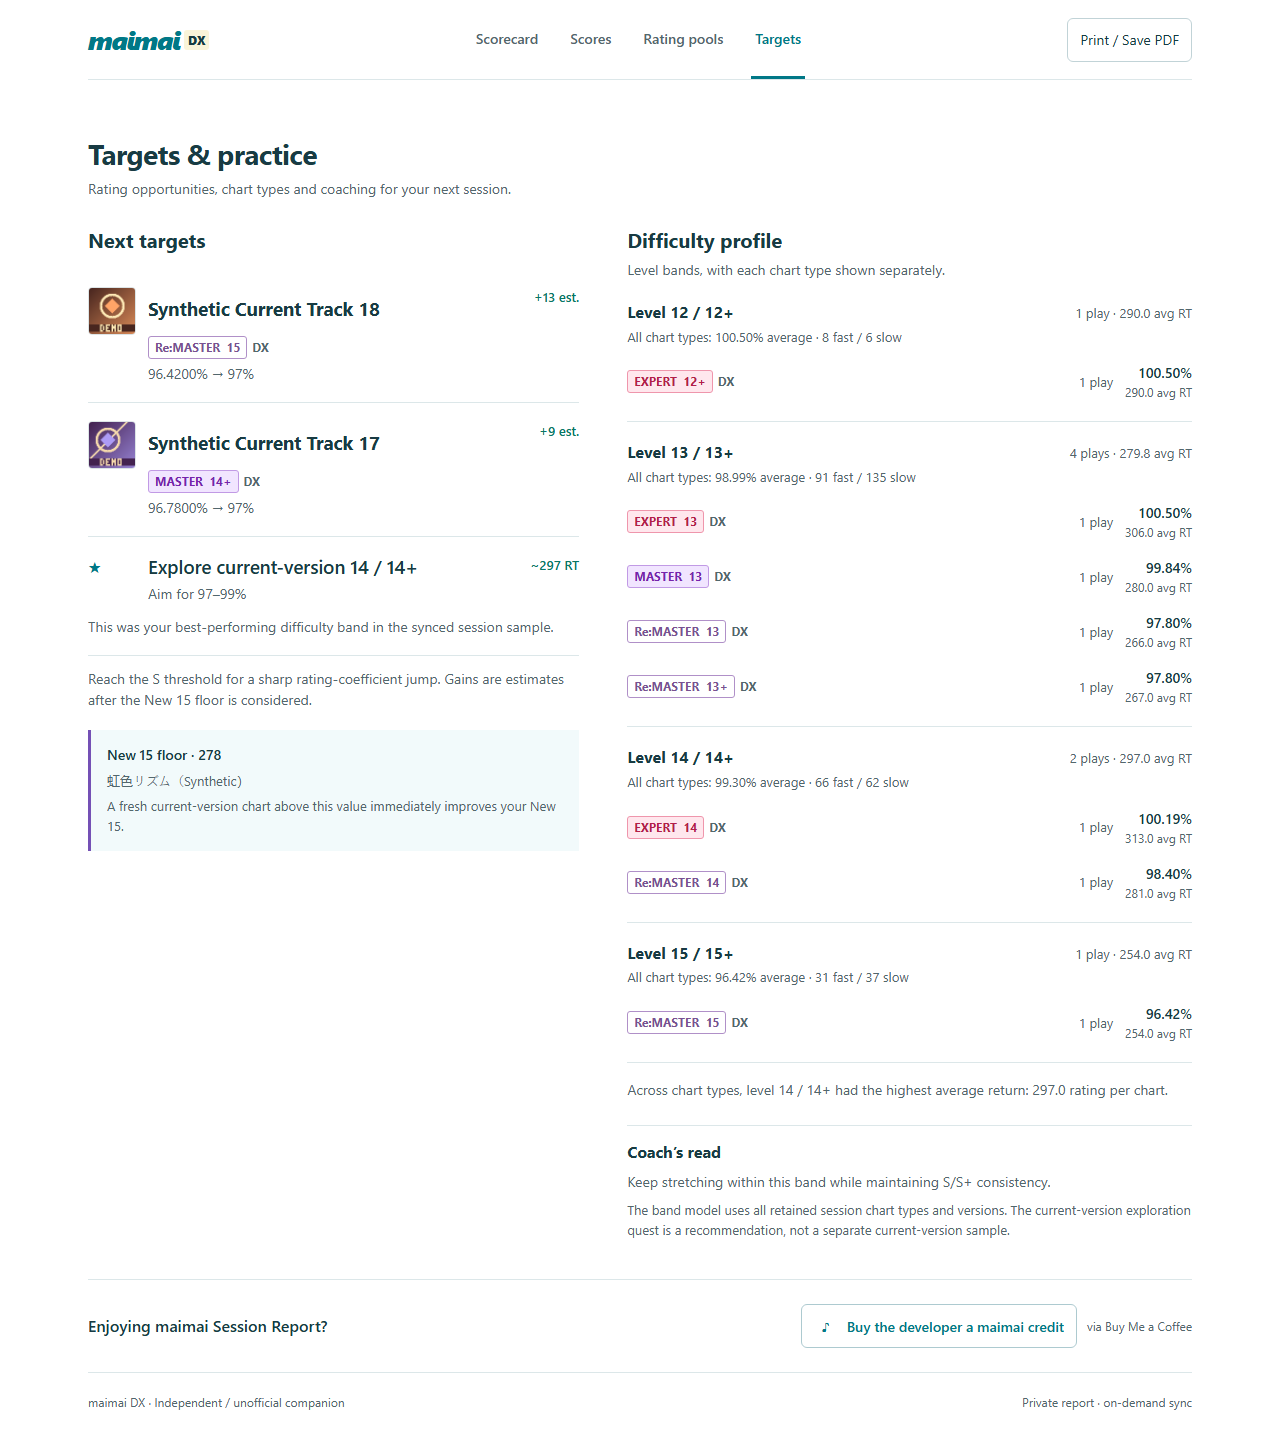
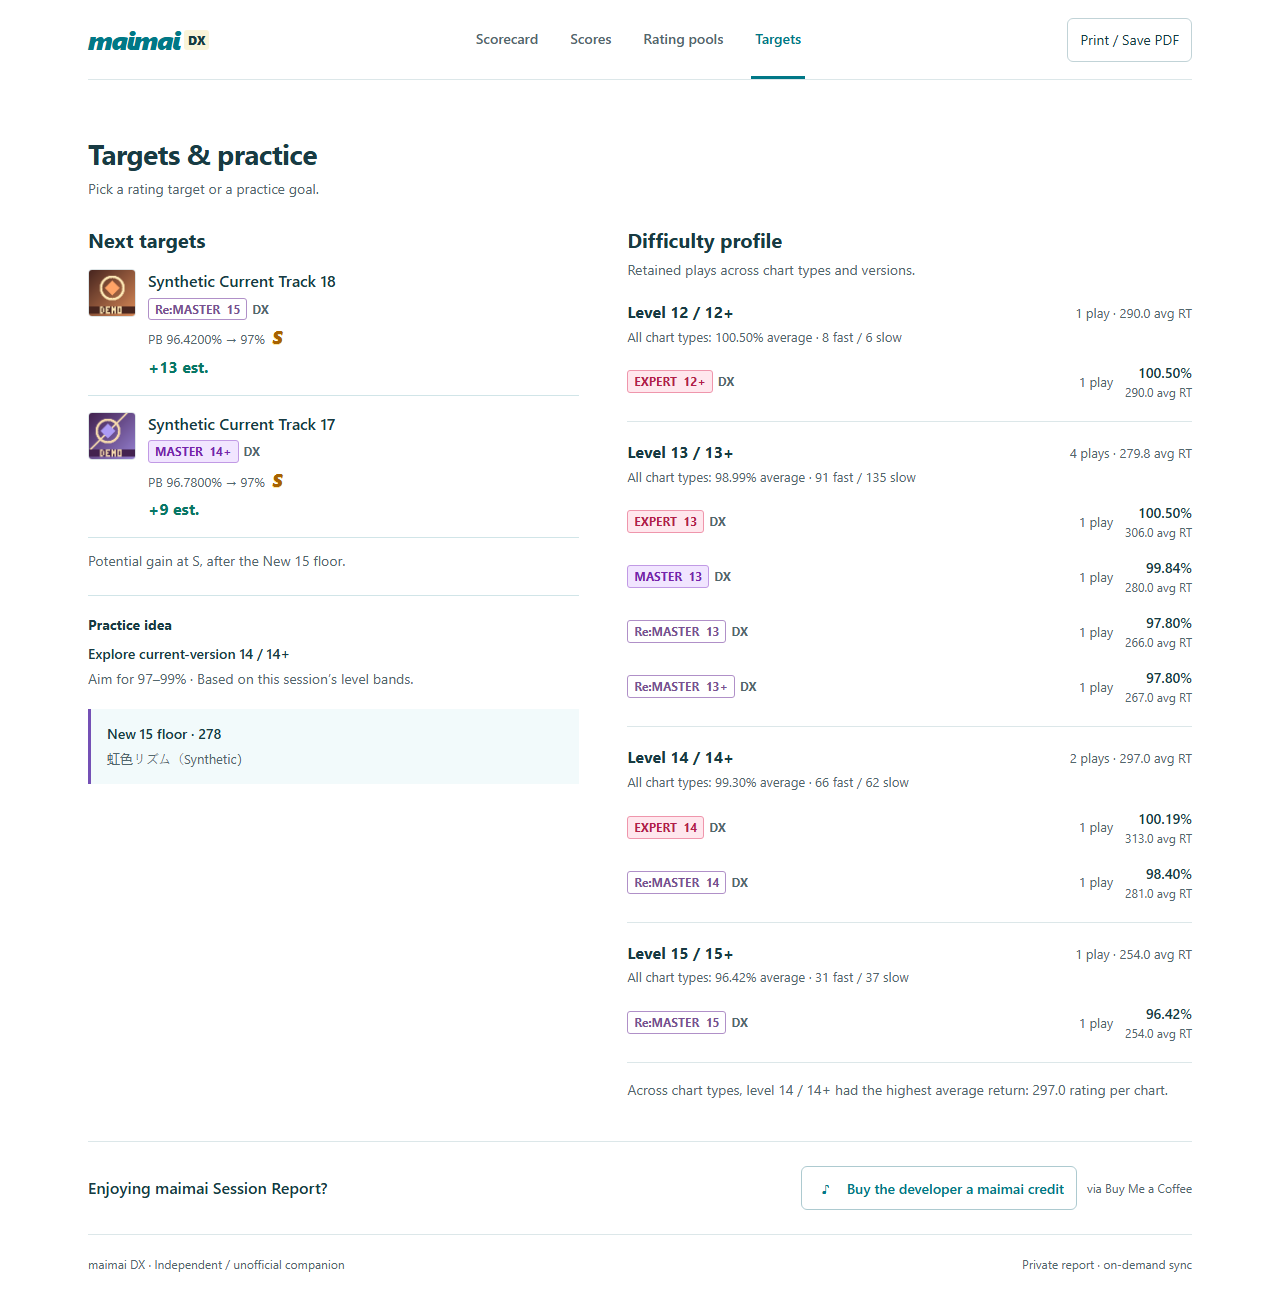
Keep existing Targets and Play next compact and consistent

diff --git a/docs/sample-report.html b/docs/sample-report.html
@@ -1275,9 +1275,10 @@ body.support-dialog-open { overflow: hidden; }
 
   function questsHtml() {
     const all = quests();
-    const floor = all.find(q=>q.reward==="FLOOR");
     const candidates = all.filter(q=>q.reward.endsWith(" est."));
-    return `<div class="quest-grid">${all.filter(q=>q.reward!=="FLOOR").map(q=>`<article class="quest">${q.chart?jacketHtml(q.chart):`<span class="quest-icon" aria-hidden="true">${q.icon}</span>`}<div><h3 class="quest-title">${q.chart?`<button type="button" class="chart-link" data-detail-source="targets" data-detail-index="${(after.newPool||[]).findIndex(x=>x.chartID===q.chart.chartID)}" aria-label="Target details: ${safe(q.title)}">${safe(q.title)}</button>`:safe(q.title)}</h3>${q.chart?chartBadge(q.chart):""}<div class="quest-sub">${safe(q.sub)}</div></div><div class="quest-reward">${safe(q.reward)}</div>${q.chart?"":`<p class="quest-copy">${safe(q.copy)}</p>`}</article>`).join("")}</div>${candidates.length?`<p class="target-explanation">Reach the S threshold for a sharp rating-coefficient jump. Gains are estimates after the New 15 floor is considered.</p>`:""}${floor?`<aside class="pool-threshold-note"><h3>New 15 floor · ${num(after.new15Floor)}</h3><p>${safe(floor.title)}</p><p>${safe(floor.copy)}</p></aside>`:""}`;
+    const practice = all.find(q=>!q.chart && q.reward!=="FLOOR");
+    const floor = all.find(q=>q.reward==="FLOOR");
+    return `${targetRowsHtml(candidates)}${practice ? `<aside class="practice-note"><h3>Practice idea</h3><p><strong>${safe(practice.title)}</strong><span>${safe(practice.sub)} · Based on this session’s level bands.</span></p></aside>` : ""}${floor ? `<aside class="pool-threshold-note"><h3>New 15 floor · ${num(after.new15Floor)}</h3><p>${safe(floor.title)}</p></aside>` : ""}`;
   }
 
   // Presentation-only sorting. Retain source indices so repeated plays of the
@@ -1397,15 +1398,18 @@ body.support-dialog-open { overflow: hidden; }
   }
 
 
+  function targetRowsHtml(candidates) {
+    return `<div class="target-list">${candidates.map(q=>`<button type="button" class="target-row" data-detail-source="targets" data-detail-index="${(after.newPool || []).findIndex(x=>x.chartID===q.chart.chartID)}" aria-label="Target details: ${safe(q.title)}">${jacketHtml(q.chart)}<span><strong>${safe(q.title)}</strong>${chartBadge(q.chart)}<span class="target-progress">PB ${safe(q.sub)} ${gradeHtml("S")}</span></span><span class="target-estimate">${safe(q.reward)}</span></button>`).join("") || `<p class="mini-empty">No positive-gain S-threshold targets in this snapshot.</p>`}</div>${candidates.length ? `<p class="target-explanation">Potential gain at S, after the New 15 floor.</p>` : ""}`;
+  }
+
   function overviewTargetsHtml() {
-    const candidates = quests().filter(q=>q.reward.endsWith(" est."));
-    return `<div class="target-list">${candidates.map(q=>`<button type="button" class="target-row" data-detail-source="targets" data-detail-index="${(after.newPool || []).findIndex(x=>x.chartID===q.chart.chartID)}" aria-label="Target details: ${safe(q.title)}">${jacketHtml(q.chart)}<span><strong>${safe(q.title)}</strong>${chartBadge(q.chart)}<span class="target-progress">${safe(q.sub)} ${gradeHtml("S")}</span></span><span class="target-estimate">${safe(q.reward)}</span></button>`).join("") || `<p class="mini-empty">No positive-gain S-threshold targets in this snapshot.</p>`}</div>${candidates.length?`<p class="target-explanation">Reach S for the next rating jump. Gains are estimates.</p>`:""}`;
+    return targetRowsHtml(quests().filter(q=>q.reward.endsWith(" est.")));
   }
 
   function overviewView() {
     return `<section id="overview-view" class="view active" data-view="overview" role="tabpanel" aria-labelledby="tab-overview">
       <div class="overview-lead"><section class="overview-scores"><div class="section-heading"><h2>Session highlights</h2><button type="button" class="text-action" data-open-view="session">All scores</button></div><p class="section-caption">Biggest PB gains, before counted-pool replacements.</p>${overviewScoresHtml()}</section>
-        <section class="overview-targets"><div class="section-heading"><h2>Play next</h2><button type="button" class="text-action" data-open-view="targets">All targets</button></div>${overviewTargetsHtml()}<button type="button" class="analysis-link" data-open-view="targets"><span><strong>Find your practice focus</strong><small>Difficulty, sweet spots & coaching</small></span><span aria-hidden="true">→</span></button></section></div>
+        <section class="overview-targets"><div class="section-heading"><h2>Play next</h2><button type="button" class="text-action" data-open-view="targets">All targets</button></div>${overviewTargetsHtml()}<button type="button" class="analysis-link" data-open-view="targets"><span><strong>Find your practice focus</strong><small>Targets & session level bands</small></span><span aria-hidden="true">→</span></button></section></div>
     </section>`;
   }
 
@@ -1432,11 +1436,9 @@ body.support-dialog-open { overflow: hidden; }
 
 
   function targetsView() {
-    const bands = difficultyBands();
-    return `<section id="targets-view" class="view" data-view="targets"><header class="view-heading"><h1>Targets & practice</h1><p>Rating opportunities, chart types and coaching for your next session.</p></header>
-      <div class="practice-layout"><section class="target-opportunities"><h2 class="section-title">Next targets</h2>${questsHtml()}</section><section class="practice-profile"><h2 class="section-title">Difficulty profile</h2><p class="section-subtitle">Level bands, with each chart type shown separately.</p>${bandsHtml()}<aside class="practice-guidance"><h3>Coach’s read</h3><p>${bands.best?"Keep stretching within this band while maintaining S/S+ consistency.":"A non-empty session will reveal your most efficient difficulty band."}</p><p>The band model uses all retained session chart types and versions. The current-version exploration quest is a recommendation, not a separate current-version sample.</p></aside></section></div></section>`;
+    return `<section id="targets-view" class="view" data-view="targets"><header class="view-heading"><h1>Targets & practice</h1><p>Pick a rating target or a practice goal.</p></header>
+      <div class="practice-layout"><section class="target-opportunities"><h2 class="section-title">Next targets</h2>${questsHtml()}</section><section class="practice-profile"><h2 class="section-title">Difficulty profile</h2><p class="section-subtitle">Retained plays across chart types and versions.</p>${bandsHtml()}</section></div></section>`;
   }
-
 
   function toolbarHtml() {
     return `<nav class="toolbar" aria-label="Report views"><a class="report-brand" href="#overview-view" data-open-view="overview" aria-label="maimai report overview"><span class="brand-word">mai<span>mai</span><b>DX</b></span></a><div class="tabs" role="tablist" aria-label="Report sections">

diff --git a/src/maimai_report/assets/app.js b/src/maimai_report/assets/app.js
@@ -271,9 +271,10 @@
 
   function questsHtml() {
     const all = quests();
-    const floor = all.find(q=>q.reward==="FLOOR");
     const candidates = all.filter(q=>q.reward.endsWith(" est."));
-    return `<div class="quest-grid">${all.filter(q=>q.reward!=="FLOOR").map(q=>`<article class="quest">${q.chart?jacketHtml(q.chart):`<span class="quest-icon" aria-hidden="true">${q.icon}</span>`}<div><h3 class="quest-title">${q.chart?`<button type="button" class="chart-link" data-detail-source="targets" data-detail-index="${(after.newPool||[]).findIndex(x=>x.chartID===q.chart.chartID)}" aria-label="Target details: ${safe(q.title)}">${safe(q.title)}</button>`:safe(q.title)}</h3>${q.chart?chartBadge(q.chart):""}<div class="quest-sub">${safe(q.sub)}</div></div><div class="quest-reward">${safe(q.reward)}</div>${q.chart?"":`<p class="quest-copy">${safe(q.copy)}</p>`}</article>`).join("")}</div>${candidates.length?`<p class="target-explanation">Reach the S threshold for a sharp rating-coefficient jump. Gains are estimates after the New 15 floor is considered.</p>`:""}${floor?`<aside class="pool-threshold-note"><h3>New 15 floor · ${num(after.new15Floor)}</h3><p>${safe(floor.title)}</p><p>${safe(floor.copy)}</p></aside>`:""}`;
+    const practice = all.find(q=>!q.chart && q.reward!=="FLOOR");
+    const floor = all.find(q=>q.reward==="FLOOR");
+    return `${targetRowsHtml(candidates)}${practice ? `<aside class="practice-note"><h3>Practice idea</h3><p><strong>${safe(practice.title)}</strong><span>${safe(practice.sub)} · Based on this session’s level bands.</span></p></aside>` : ""}${floor ? `<aside class="pool-threshold-note"><h3>New 15 floor · ${num(after.new15Floor)}</h3><p>${safe(floor.title)}</p></aside>` : ""}`;
   }
 
   // Presentation-only sorting. Retain source indices so repeated plays of the
@@ -393,15 +394,18 @@
   }
 
 
+  function targetRowsHtml(candidates) {
+    return `<div class="target-list">${candidates.map(q=>`<button type="button" class="target-row" data-detail-source="targets" data-detail-index="${(after.newPool || []).findIndex(x=>x.chartID===q.chart.chartID)}" aria-label="Target details: ${safe(q.title)}">${jacketHtml(q.chart)}<span><strong>${safe(q.title)}</strong>${chartBadge(q.chart)}<span class="target-progress">PB ${safe(q.sub)} ${gradeHtml("S")}</span></span><span class="target-estimate">${safe(q.reward)}</span></button>`).join("") || `<p class="mini-empty">No positive-gain S-threshold targets in this snapshot.</p>`}</div>${candidates.length ? `<p class="target-explanation">Potential gain at S, after the New 15 floor.</p>` : ""}`;
+  }
+
   function overviewTargetsHtml() {
-    const candidates = quests().filter(q=>q.reward.endsWith(" est."));
-    return `<div class="target-list">${candidates.map(q=>`<button type="button" class="target-row" data-detail-source="targets" data-detail-index="${(after.newPool || []).findIndex(x=>x.chartID===q.chart.chartID)}" aria-label="Target details: ${safe(q.title)}">${jacketHtml(q.chart)}<span><strong>${safe(q.title)}</strong>${chartBadge(q.chart)}<span class="target-progress">${safe(q.sub)} ${gradeHtml("S")}</span></span><span class="target-estimate">${safe(q.reward)}</span></button>`).join("") || `<p class="mini-empty">No positive-gain S-threshold targets in this snapshot.</p>`}</div>${candidates.length?`<p class="target-explanation">Reach S for the next rating jump. Gains are estimates.</p>`:""}`;
+    return targetRowsHtml(quests().filter(q=>q.reward.endsWith(" est.")));
   }
 
   function overviewView() {
     return `<section id="overview-view" class="view active" data-view="overview" role="tabpanel" aria-labelledby="tab-overview">
       <div class="overview-lead"><section class="overview-scores"><div class="section-heading"><h2>Session highlights</h2><button type="button" class="text-action" data-open-view="session">All scores</button></div><p class="section-caption">Biggest PB gains, before counted-pool replacements.</p>${overviewScoresHtml()}</section>
-        <section class="overview-targets"><div class="section-heading"><h2>Play next</h2><button type="button" class="text-action" data-open-view="targets">All targets</button></div>${overviewTargetsHtml()}<button type="button" class="analysis-link" data-open-view="targets"><span><strong>Find your practice focus</strong><small>Difficulty, sweet spots & coaching</small></span><span aria-hidden="true">→</span></button></section></div>
+        <section class="overview-targets"><div class="section-heading"><h2>Play next</h2><button type="button" class="text-action" data-open-view="targets">All targets</button></div>${overviewTargetsHtml()}<button type="button" class="analysis-link" data-open-view="targets"><span><strong>Find your practice focus</strong><small>Targets & session level bands</small></span><span aria-hidden="true">→</span></button></section></div>
     </section>`;
   }
 
@@ -428,11 +432,9 @@
 
 
   function targetsView() {
-    const bands = difficultyBands();
-    return `<section id="targets-view" class="view" data-view="targets"><header class="view-heading"><h1>Targets & practice</h1><p>Rating opportunities, chart types and coaching for your next session.</p></header>
-      <div class="practice-layout"><section class="target-opportunities"><h2 class="section-title">Next targets</h2>${questsHtml()}</section><section class="practice-profile"><h2 class="section-title">Difficulty profile</h2><p class="section-subtitle">Level bands, with each chart type shown separately.</p>${bandsHtml()}<aside class="practice-guidance"><h3>Coach’s read</h3><p>${bands.best?"Keep stretching within this band while maintaining S/S+ consistency.":"A non-empty session will reveal your most efficient difficulty band."}</p><p>The band model uses all retained session chart types and versions. The current-version exploration quest is a recommendation, not a separate current-version sample.</p></aside></section></div></section>`;
+    return `<section id="targets-view" class="view" data-view="targets"><header class="view-heading"><h1>Targets & practice</h1><p>Pick a rating target or a practice goal.</p></header>
+      <div class="practice-layout"><section class="target-opportunities"><h2 class="section-title">Next targets</h2>${questsHtml()}</section><section class="practice-profile"><h2 class="section-title">Difficulty profile</h2><p class="section-subtitle">Retained plays across chart types and versions.</p>${bandsHtml()}</section></div></section>`;
   }
-
 
   function toolbarHtml() {
     return `<nav class="toolbar" aria-label="Report views"><a class="report-brand" href="#overview-view" data-open-view="overview" aria-label="maimai report overview"><span class="brand-word">mai<span>mai</span><b>DX</b></span></a><div class="tabs" role="tablist" aria-label="Report sections">

diff --git a/tests/browser/compact-targets.spec.js b/tests/browser/compact-targets.spec.js
@@ -1,0 +1,68 @@
+import {test, expect} from '@playwright/test';
+import AxeBuilder from '@axe-core/playwright';
+import {readFile} from 'node:fs/promises';
+
+test('Scorecard and Targets share concise rows and unchanged floor-aware opportunities', async ({page}, testInfo) => {
+  const errors = [], external = [];
+  page.on('pageerror', error => errors.push(error.message));
+  await page.route('**/*', route => {
+    if (new URL(route.request().url()).hostname === '127.0.0.1') return route.continue();
+    external.push(route.request().url()); return route.abort();
+  });
+  await page.goto('/presentation.html');
+  const before = await page.locator('#report-data').textContent();
+  const overview = page.locator('#overview-view .target-list');
+  // Authored fixture: floor 278; S ratings 294 and 291, respectively.
+  await expect(overview.locator('.target-estimate')).toHaveText(['+16 est.', '+13 est.']);
+  await expect(overview.locator('.target-progress')).toHaveText(['PB 96.2000% → 97% S', 'PB 96.4200% → 97% S']);
+  const rows = await overview.innerHTML();
+  await page.getByRole('tab', {name:'Targets', exact:true}).click();
+  expect(await page.locator('#targets-view .target-list').innerHTML()).toBe(rows);
+  await expect(page.locator('#targets-view details, #targets-view select')).toHaveCount(0);
+  await expect(page.locator('#targets-view').getByRole('button', {name:'View', exact:true})).toHaveCount(0);
+  await expect(page.locator('#targets-view .practice-note')).toContainText('Practice idea');
+  await expect(page.locator('#targets-view .practice-note')).toContainText('Aim for 97–99%');
+  await expect(page.locator('#targets-view')).not.toContainText('Coach’s read');
+  await expect(page.locator('#targets-view .pool-threshold-note')).toContainText('New 15 floor · 278');
+  const opener = page.locator('#targets-view .target-row').first();
+  await opener.click();
+  await expect(page.locator('.chart-dialog')).toContainText('Synthetic uncounted target');
+  await expect(page.locator('.chart-dialog')).toContainText('+16 est.');
+  await page.keyboard.press('Escape');
+  await expect(opener).toBeFocused();
+  expect(await page.locator('#report-data').textContent()).toBe(before);
+  const axe = await new AxeBuilder({page}).withTags(['wcag2a','wcag2aa','wcag21aa']).analyze();
+  expect(axe.violations).toEqual([]);
+  await page.screenshot({path:testInfo.outputPath('compact-targets.png'), fullPage:true});
+  await page.evaluate(() => {document.documentElement.style.fontSize='200%';});
+  expect(await page.evaluate(() => document.documentElement.scrollWidth <= innerWidth + 1)).toBe(true);
+  expect(errors).toEqual([]); expect(external).toEqual([]);
+});
+
+test('no new session retains prior targets; no eligible candidates is explicit; B50 still downloads', async ({page}) => {
+  await page.goto('/empty.html');
+  await page.getByRole('tab', {name:'Targets', exact:true}).click();
+  // The bundled empty scenario has no new plays, but still retains earlier PBs.
+  await expect(page.locator('#targets-view .target-estimate')).toHaveText(['+13 est.', '+9 est.']);
+  await expect(page.locator('#targets-view .practice-note')).toHaveCount(0);
+  const html = (await readFile(new URL('generated/empty.html', import.meta.url), 'utf8'))
+    .replace(/(<script id="report-data"[^>]*>)(.*?)(<\/script>)/s, (_, open, json, close) => {
+      const model = JSON.parse(json);
+      // Exclude the two uncounted near-S records from this authored catalog;
+      // preserve counted pools, ratings and the empty session unchanged.
+      model.after.newPool = model.after.newPool.filter(item => item.percent >= 97);
+      return open + JSON.stringify(model).replace(/</g, '\\u003c') + close;
+    });
+  await page.route('**/no-targets.html', route => route.fulfill({contentType:'text/html', body:html}));
+  await page.goto('/no-targets.html');
+  await page.getByRole('tab', {name:'Targets', exact:true}).click();
+  await expect(page.locator('#targets-view .target-row')).toHaveCount(0);
+  await expect(page.locator('#targets-view')).toContainText('No positive-gain S-threshold targets');
+  await expect(page.locator('#targets-view .practice-note')).toHaveCount(0);
+  await page.goto('/complete.html');
+  await page.getByRole('tab', {name:'Targets', exact:true}).click();
+  const pending = page.waitForEvent('download');
+  await page.getByRole('link', {name:'Download B50'}).click();
+  const downloaded = await pending;
+  expect(await readFile(await downloaded.path())).toEqual(await readFile(new URL('generated/synthetic-b50.webp', import.meta.url)));
+});

diff --git a/tests/test_presentation_port.py b/tests/test_presentation_port.py
@@ -17,11 +17,11 @@ from maimai_report.render import enrich_report, render_demo
 class PresentationPortTests(unittest.TestCase):
     def test_reviewed_layout_interactions_and_support_assets_match(self):
         # Git blob IDs of the reviewed presentation (UTF-8 / LF).
-        # Scores headers and playercard accessibility are intentionally updated;
+        # Scores, compact Targets and playercard accessibility are updated;
         # the support assets retain their original published hashes.
         expected = {
             "styles.css": "ddc221455a1bc10e0f4d7bd0ff7b64dc17773852",
-            "app.js": "a03662e14bc5c1ac3110e6a7bf98994974b07cbc",
+            "app.js": "9b01678993dcf01526a5e0d4e96a4fbfda617ec8",
             "support.css": "c65a3d29d4c8ebac63f412e864d5ddab6ae5fa27",
             "support.js": "84d786e9c2e408a62c743c6710c872347da36a38",
         }

diff --git a/docs/REPORT_FIXES.md b/docs/REPORT_FIXES.md
@@ -16,6 +16,15 @@ analyzer, catalog, experimental recommendations, chart sources or generated corp
 - Preserve B50 downloads. The missing download in the Chart Intelligence preview
   was a preview with no supplied image, not a removal of the public download path.
   The existing browser test downloads and compares the exact fictional image bytes.
+- Share the compact chart rows between Scorecard's Play next and Targets. Retain
+  chart identity, PB-to-S objective, conditional floor-aware gain, the existing
+  session-based practice idea and level breakdown. Remove the longer coaching and
+  repeated target prose; add no View action, dropdown or expandable writeup.
+
+The selection/order of targets and the S-threshold calculation are unchanged.
+Flow bars, named-pattern practice, similarity and Explore remain in Chart
+Intelligence because they require its catalog and analysis evidence. This branch
+does not create substitute pattern tags or infer personal weaknesses.
 
 The earlier playercard regression was in the private release-cleanup commit
 `0b399713b75507e0da07f0008c8825d48b810960`; that cleanup replaced the frames
@@ -37,3 +46,27 @@ and path allowlist while allowing idle browser connections without blocking requ
 Presentation asset hashes are intentionally updated for the reviewed changes;
 support hashes remain fixed. Full asset hashes are supplemented by behavioral
 tests of sorting, details, B50 bytes, before/after values and responsive layouts.
+
+## Local evidence (2026-09-11)
+
+- Python: 209 tests discovered, 208 passed, one Windows symbolic-link skip.
+- Browser: 140 existing-report cases passed in Chromium at 1280, 768, 390 and
+  320 pixels and WebKit at 390; ten compact-Targets cases also passed across
+  those projects. These include missing/invalid score fields, repeated plays,
+  keyboard focus, 200% text, automated accessibility and exact B50 image bytes.
+- The initial combined run passed 145 cases and failed five copies of an incorrect
+  new fixture expectation: an empty session still has prior PB targets. The corrected
+  ten-case Targets run passed, exercising both retained targets with no new plays and
+  an explicitly authored pool without eligible candidates. Product code did not
+  change to satisfy that fixture correction.
+- The Windows managed-server shutdown stalled after two earlier 140-case runs.
+  The completed run used the same loopback fixture server started separately;
+  no browser assertions, retries or timeouts were relaxed.
+- Ruff lint and format checks passed. Offline doctor and sealed fictional rendering
+  passed; no external URL was present in the sealed output. Desktop, mobile and
+  Scores/Targets screenshots were inspected. This is automated browser coverage,
+  not a manual screen-reader audit or a hosted installation test.
+
+The final diff uses LF for the imported browser fixtures; their line-ending cleanup
+does not change behavior. No history was rewritten. All generated test evidence
+remains ignored under `output/` or the existing synthetic test folders.

diff --git a/docs/PRESENTATION.md b/docs/PRESENTATION.md
@@ -90,6 +90,14 @@ npm test
 
 ## Analytical limitations
 
+Scorecard's Play next and Targets share the same compact chart-row component:
+identity, PB-to-S objective and conditional rating gain. The short gain note
+states that the New 15 floor is included. Chart titles still open retained score
+details; there is no extra View action or recommendation writeup control. The
+practice idea remains based on this session's observed level bands, with the
+sample scope stated alongside it. This presentation cleanup adds no detector,
+training claim or new recommendation ranking.
+
 - Difficulty-band averages aggregate retained plays across chart types and
   versions; the existing exploration quest recommends current-version charts
   from that sample. The UI explains this scope.
